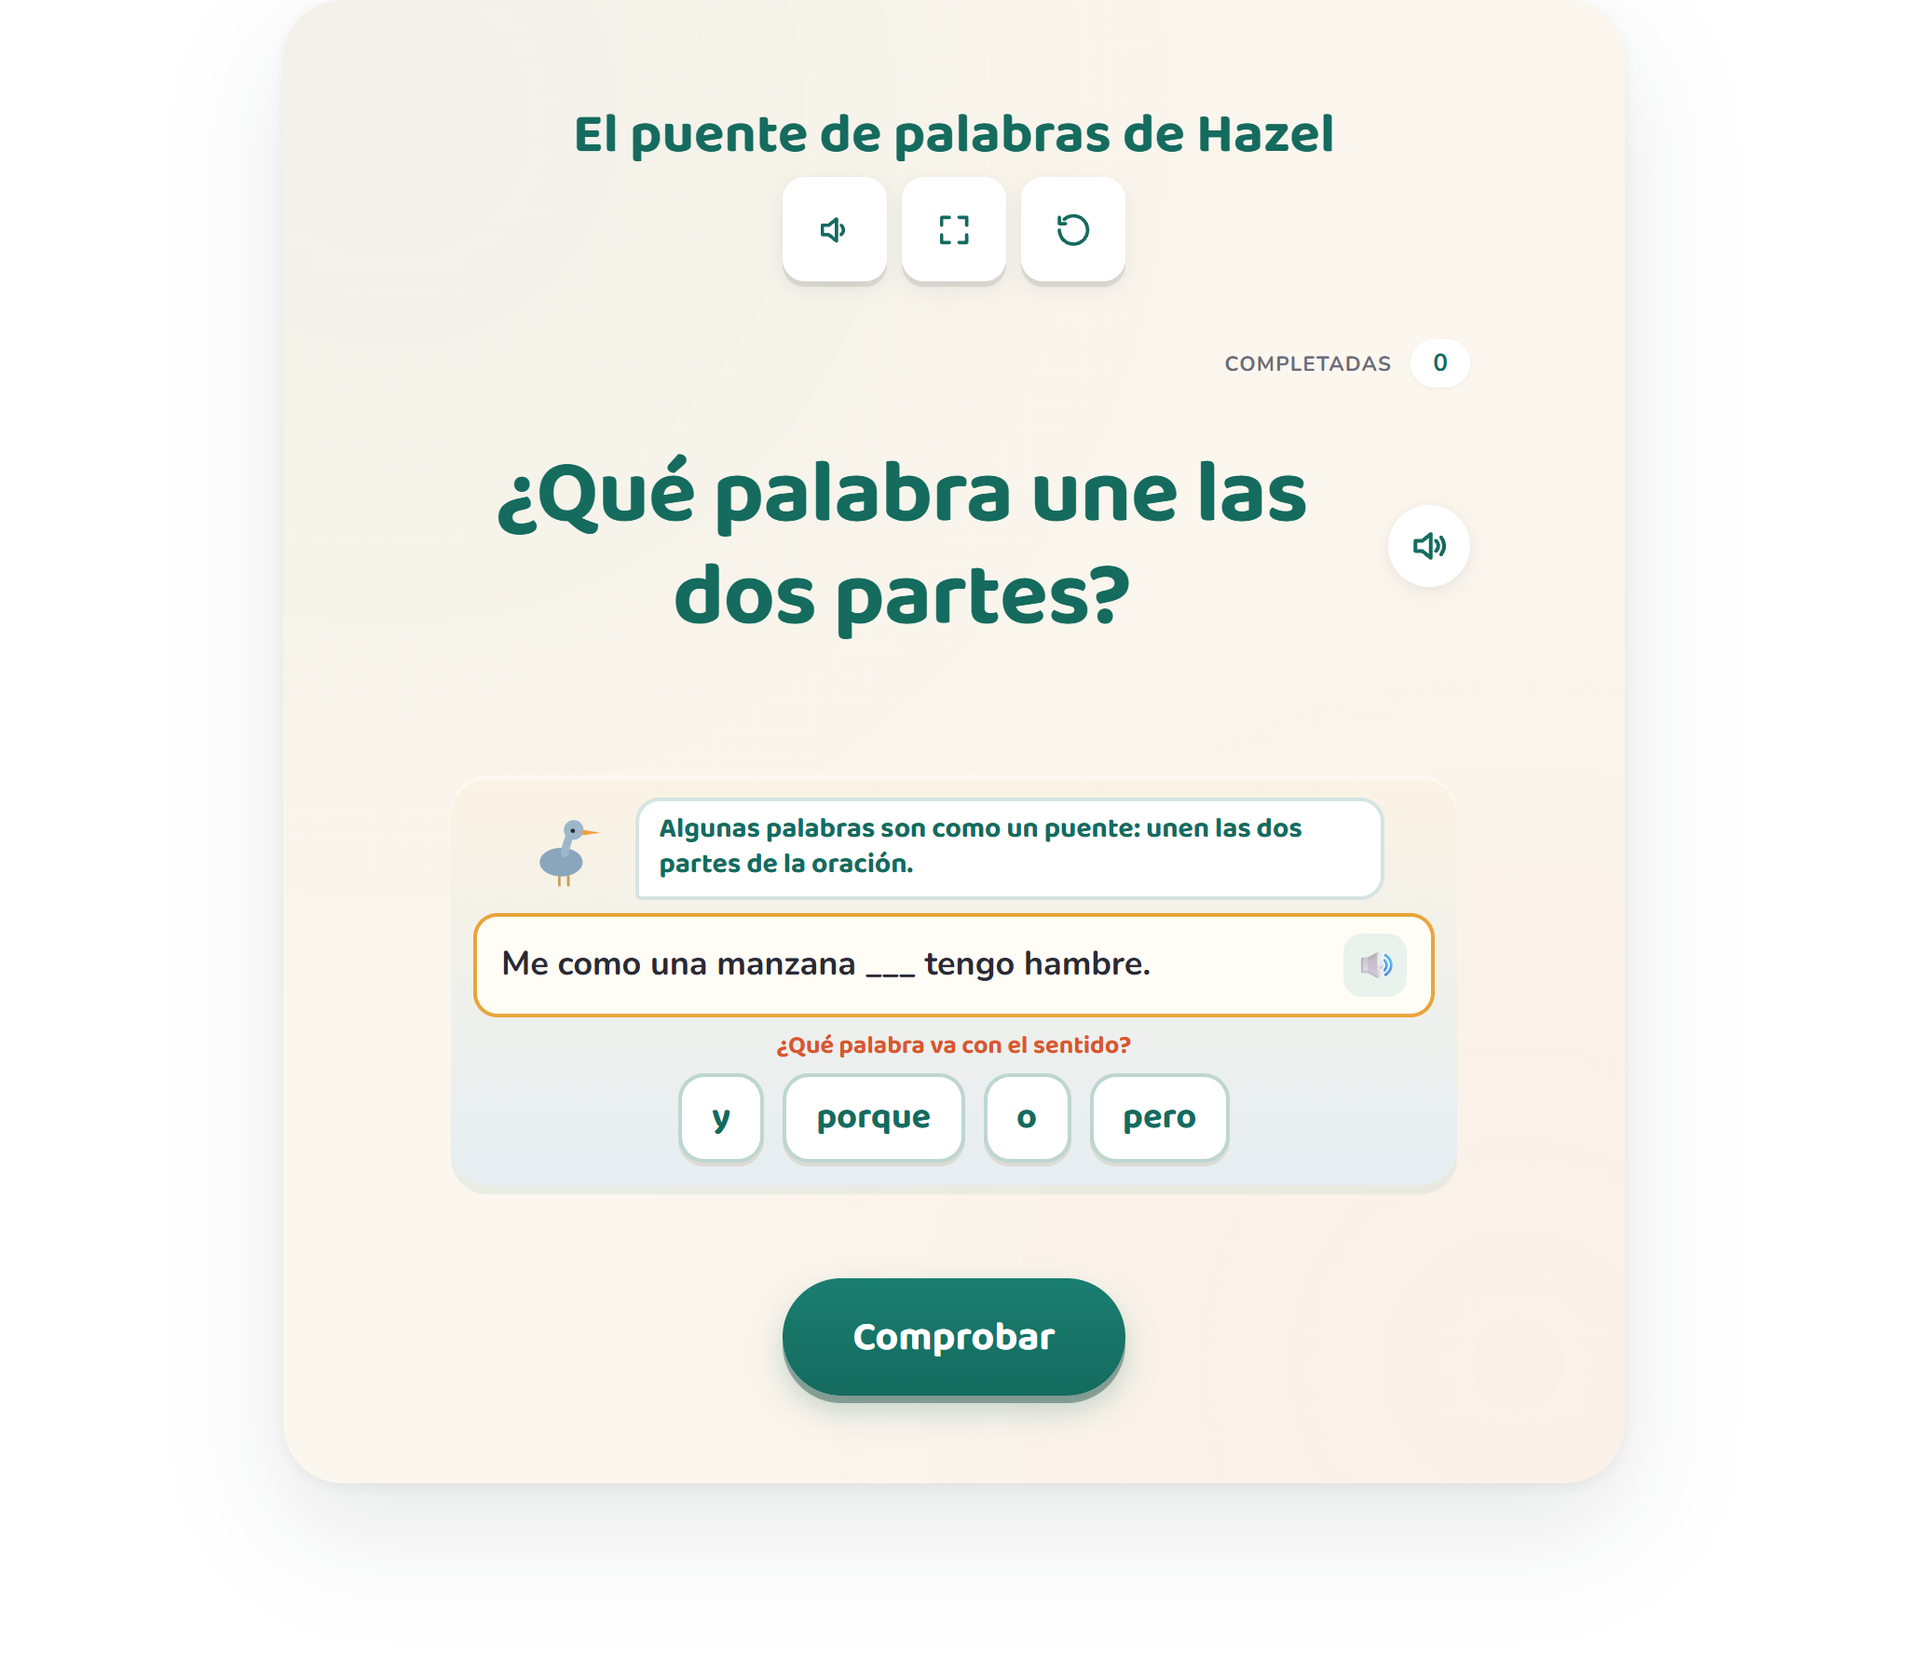
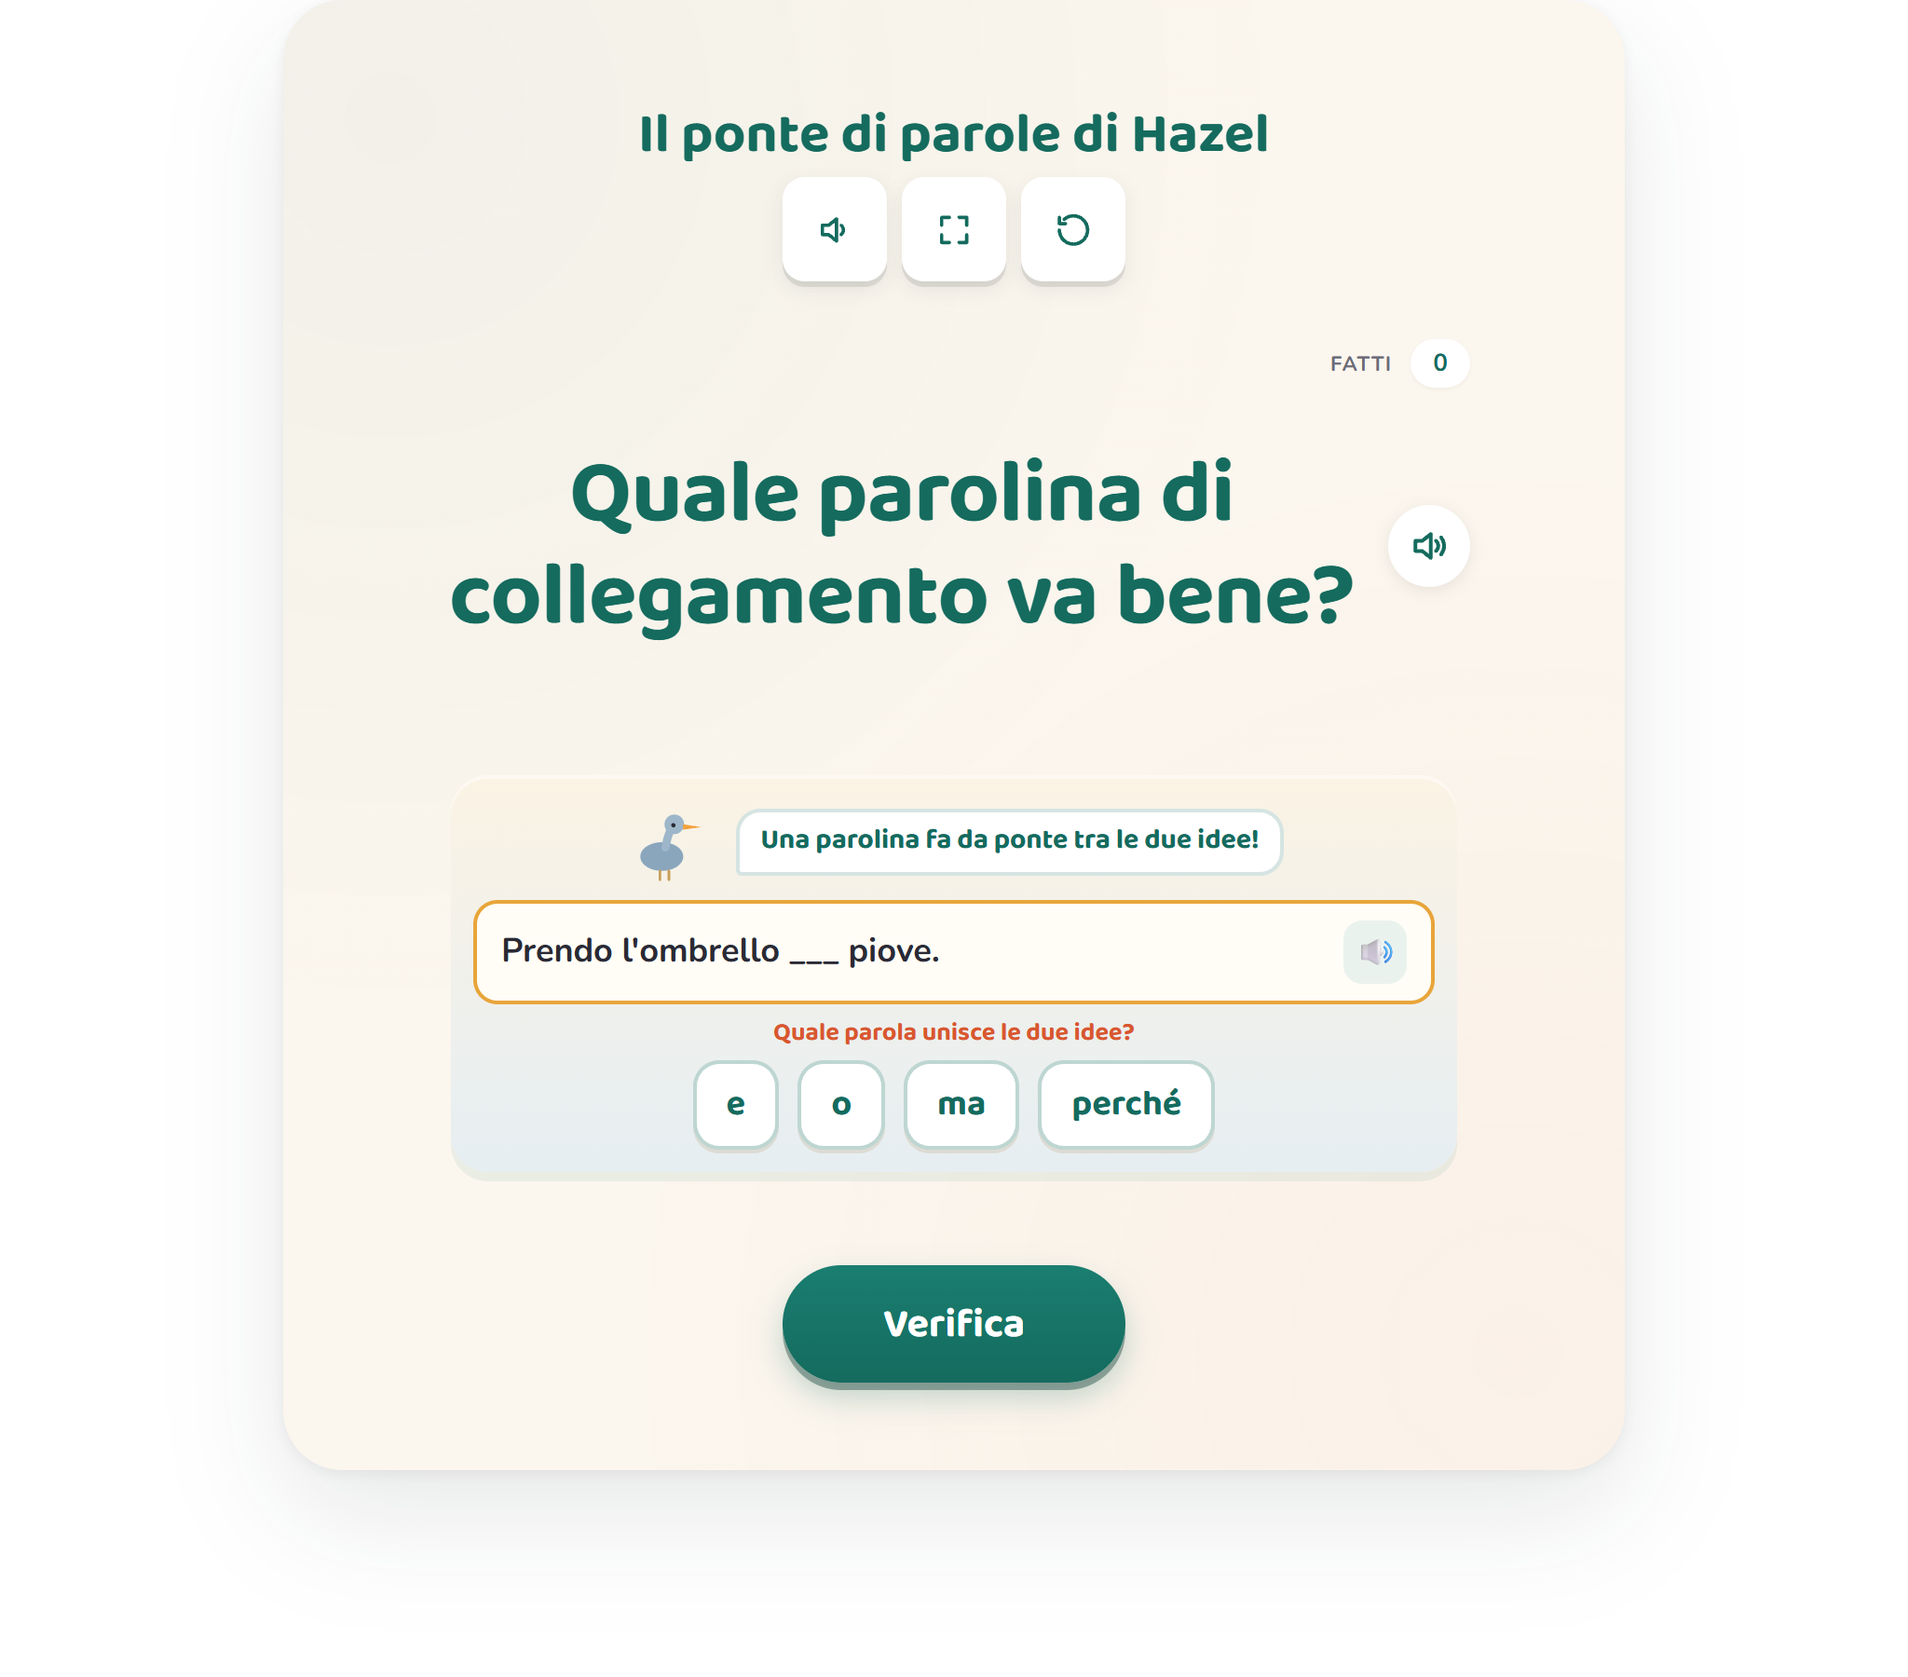
[FEATURE][I18N][IT] hazel-word-bridge #29 — Il ponte di parole di Hazel (classe terza)
9th it LITERACY of the second-batch fan-out (pt sibling «A Ponte de Palavras
da Hazel»). Rebuild not translate for the Indicazioni nazionali — the four
basic congiunzioni e / o / ma / perché (acute é), classe terza, strand
auto-maps to «Riflessione linguistica» (Language.it). 3-agent native ensemble.

Ensemble rulings:
- Round-6 «Accendo la luce ___ è buio» admitted «ma» (bulb-is-dead reading) →
  replaced with «Prendo l'ombrello ___ piove.» (cause is the only fit).
- Round-8 hardened to an emotion cause «Siamo felici ___ è il primo giorno di
  vacanza.» → two distinct cause types (action vs emotion). Round-5 revised to
  mutual-exclusivity «Andiamo al mare ___ restiamo in montagna?».
- Comma-before-«ma» baked into the two «ma» rounds only (correct classe-3 usage).
- Character «Hazel, una garzetta» (feminine); never «la Hazel».
- Kid term «parola di collegamento»; «congiunzioni» reserved for SEO/curriculum.

Activity-layer only: 0 lines to conjunction-core.js / lcs-shell.* / Direction-A
CSS. GRADE_OVERRIDE it:'3', wrapper 9.481→9.482, html ?v=6. LOCAL only — NO
deploy (whole it set deploys in one batch at the end).

diff --git a/mini tools/hazel-word-bridge-activity.js b/mini tools/hazel-word-bridge-activity.js
@@ -23,18 +23,22 @@
   var CHIPS_ES = ['y', 'o', 'pero', 'porque'];
   var REL_CONJ_PT = { addition: 'e', alternative: 'ou', contrast: 'mas', cause: 'porque' };
   var CHIPS_PT = ['e', 'ou', 'mas', 'porque'];
-  var REL_CONJ_L10N = { de: REL_CONJ_DE, fr: REL_CONJ_FR, es: REL_CONJ_ES, pt: REL_CONJ_PT };
-  var CHIPS_L10N = { de: CHIPS_DE, fr: CHIPS_FR, es: CHIPS_ES, pt: CHIPS_PT };
+  // it (#29 native ensemble): the four basic congiunzioni for classe terza — e / o / ma / perché.
+  // ⚠ ACUTE é on «perché» (all oxytone -ché words take acute; «perchè» is the classic error).
+  var REL_CONJ_IT = { addition: 'e', alternative: 'o', contrast: 'ma', cause: 'perché' };
+  var CHIPS_IT = ['e', 'o', 'ma', 'perché'];
+  var REL_CONJ_L10N = { de: REL_CONJ_DE, fr: REL_CONJ_FR, es: REL_CONJ_ES, pt: REL_CONJ_PT, it: REL_CONJ_IT };
+  var CHIPS_L10N = { de: CHIPS_DE, fr: CHIPS_FR, es: CHIPS_ES, pt: CHIPS_PT, it: CHIPS_IT };
   function hwbOracle(round) { var m = REL_CONJ_L10N[LANG]; return m ? (m[round.relation] || '') : Core.oracle(round); }
   function hwbIsAnswer(round, str) { return str === hwbOracle(round); }
 
   function esc(s) { return String(s == null ? '' : s).replace(/[&<>"]/g, function (c) { return { '&': '&amp;', '<': '&lt;', '>': '&gt;', '"': '&quot;' }[c]; }); }
   function speak(text, rate) {
-    try { if (global.LCSAudio && global.LCSAudio.speak) { global.LCSAudio.speak({ type: 'word', text: text, lang: (LANG === 'es' ? 'es-MX' : LANG === 'pt' ? 'pt-BR' : LANG), rate: rate || 0.95 }); return; }
-      if (global.speechSynthesis && global.SpeechSynthesisUtterance) { var u = new global.SpeechSynthesisUtterance(text); u.rate = rate || 0.95; u.lang = LANG === 'de' ? 'de-DE' : LANG === 'fr' ? 'fr-FR' : LANG === 'es' ? 'es-MX' : LANG === 'pt' ? 'pt-BR' : 'en-US'; global.speechSynthesis.cancel(); global.speechSynthesis.speak(u); } } catch (e) {}
+    try { if (global.LCSAudio && global.LCSAudio.speak) { global.LCSAudio.speak({ type: 'word', text: text, lang: (LANG === 'es' ? 'es-MX' : LANG === 'pt' ? 'pt-BR' : LANG === 'it' ? 'it-IT' : LANG), rate: rate || 0.95 }); return; }
+      if (global.speechSynthesis && global.SpeechSynthesisUtterance) { var u = new global.SpeechSynthesisUtterance(text); u.rate = rate || 0.95; u.lang = LANG === 'de' ? 'de-DE' : LANG === 'fr' ? 'fr-FR' : LANG === 'es' ? 'es-MX' : LANG === 'pt' ? 'pt-BR' : LANG === 'it' ? 'it-IT' : 'en-US'; global.speechSynthesis.cancel(); global.speechSynthesis.speak(u); } } catch (e) {}
   }
   function shuffle(arr) { var a = arr.slice(), i, j, t; for (i = a.length - 1; i > 0; i--) { j = Math.floor(Math.random() * (i + 1)); t = a[i]; a[i] = a[j]; a[j] = t; } return a; }
-  function sayable(s) { return String(s || '').replace(/___/g, LANG === 'de' ? 'Lücke' : LANG === 'fr' ? 'trou' : LANG === 'es' ? 'espacio' : LANG === 'pt' ? 'lacuna' : 'blank'); }
+  function sayable(s) { return String(s || '').replace(/___/g, LANG === 'de' ? 'Lücke' : LANG === 'fr' ? 'trou' : LANG === 'es' ? 'espacio' : LANG === 'pt' ? 'lacuna' : LANG === 'it' ? 'spazio' : 'blank'); }
 
   function heronSVG(mood) {
     var happy = mood === 'happy';
@@ -53,13 +57,13 @@
     id: 'hazel-word-bridge-activity',
 
     strings: {
-      title: { en: "Hazel's Word Bridge", de: 'Hazels Wortbrücke', fr: 'Le pont des mots de Hazel', es: 'El puente de palabras de Hazel', pt: 'A ponte de palavras da Hazel' },
-      prompt: { en: 'Which joining word fits?', de: 'Welches Bindewort passt?', fr: 'Quel mot de liaison va bien ?', es: '¿Qué palabra une las dos partes?', pt: 'Qual palavrinha de ligação combina?' },
-      hazelIntro: { en: 'A joining word bridges the two ideas!', de: 'Ein Bindewort schlägt eine Brücke zwischen den zwei Sätzen!', fr: 'Un mot de liaison fait un pont entre les deux phrases !', es: 'Algunas palabras son como un puente: unen las dos partes de la oración.', pt: 'Uma palavrinha de ligação faz a ponte entre as duas ideias!' },
-      theAsk: { en: 'Which word joins the two parts?', de: 'Welches Wort verbindet die zwei Teile?', fr: 'Quel mot relie les deux parties ?', es: '¿Qué palabra va con el sentido?', pt: 'Qual palavra combina com o sentido?' },
-      hintPick: { en: 'Tap the joining word that makes sense!', de: 'Tippe auf ein Bindewort, das in die Lücke passt.', fr: 'Touche le mot de liaison qui va dans le trou.', es: 'Toca la palabra que une las dos partes con sentido.', pt: 'Toque na palavra que liga as duas partes com sentido!' },
-      hintWrong: { en: "That joining word doesn't fit — read it again.", de: 'Lies den ganzen Satz noch einmal. Welches Wort passt zur Bedeutung?', fr: 'Relis toute la phrase : quel mot va avec le sens ?', es: 'Lee otra vez toda la oración. ¿Qué palabra tiene sentido aquí?', pt: 'Leia a frase toda de novo — qual palavrinha combina com o sentido?' },
-      win: { en: 'Yes! That word bridges the two ideas. 🌉', de: 'Stark gemacht! Du hast die richtige Brücke gebaut! 🌉', fr: 'Bravo ! Tu as construit le bon pont ! 🌉', es: '¡Muy bien! Uniste las dos partes con el puente correcto. 🌉', pt: 'Muito bem! Você ligou as duas partes com a ponte certa. 🌉' }
+      title: { en: "Hazel's Word Bridge", de: 'Hazels Wortbrücke', fr: 'Le pont des mots de Hazel', es: 'El puente de palabras de Hazel', pt: 'A ponte de palavras da Hazel', it: 'Il ponte di parole di Hazel' },
+      prompt: { en: 'Which joining word fits?', de: 'Welches Bindewort passt?', fr: 'Quel mot de liaison va bien ?', es: '¿Qué palabra une las dos partes?', pt: 'Qual palavrinha de ligação combina?', it: 'Quale parolina di collegamento va bene?' },
+      hazelIntro: { en: 'A joining word bridges the two ideas!', de: 'Ein Bindewort schlägt eine Brücke zwischen den zwei Sätzen!', fr: 'Un mot de liaison fait un pont entre les deux phrases !', es: 'Algunas palabras son como un puente: unen las dos partes de la oración.', pt: 'Uma palavrinha de ligação faz a ponte entre as duas ideias!', it: 'Una parolina fa da ponte tra le due idee!' },
+      theAsk: { en: 'Which word joins the two parts?', de: 'Welches Wort verbindet die zwei Teile?', fr: 'Quel mot relie les deux parties ?', es: '¿Qué palabra va con el sentido?', pt: 'Qual palavra combina com o sentido?', it: 'Quale parola unisce le due idee?' },
+      hintPick: { en: 'Tap the joining word that makes sense!', de: 'Tippe auf ein Bindewort, das in die Lücke passt.', fr: 'Touche le mot de liaison qui va dans le trou.', es: 'Toca la palabra que une las dos partes con sentido.', pt: 'Toque na palavra que liga as duas partes com sentido!', it: 'Tocca la parola di collegamento che ha senso!' },
+      hintWrong: { en: "That joining word doesn't fit — read it again.", de: 'Lies den ganzen Satz noch einmal. Welches Wort passt zur Bedeutung?', fr: 'Relis toute la phrase : quel mot va avec le sens ?', es: 'Lee otra vez toda la oración. ¿Qué palabra tiene sentido aquí?', pt: 'Leia a frase toda de novo — qual palavrinha combina com o sentido?', it: 'Rileggi tutta la frase — quale parola ha senso qui?' },
+      win: { en: 'Yes! That word bridges the two ideas. 🌉', de: 'Stark gemacht! Du hast die richtige Brücke gebaut! 🌉', fr: 'Bravo ! Tu as construit le bon pont ! 🌉', es: '¡Muy bien! Uniste las dos partes con el puente correcto. 🌉', pt: 'Muito bem! Você ligou as duas partes com a ponte certa. 🌉', it: 'Sì! Hai unito le due idee con il ponte giusto. 🌉' }
     },
     defaults: {},
 
@@ -92,7 +96,7 @@
 
       var sent = api.el('div', 'hwb-sent');
       var txt = api.el('span', 'hwb-senttxt'); txt.textContent = v.sentence; sent.appendChild(txt);
-      var sp = api.el('button', 'hwb-spk'); sp.type = 'button'; sp.setAttribute('aria-label', LANG === 'de' ? 'Satz anhören' : LANG === 'fr' ? 'écouter la phrase' : LANG === 'es' ? 'escuchar la oración' : LANG === 'pt' ? 'ouvir a frase' : 'hear the sentence'); sp.textContent = '🔊';
+      var sp = api.el('button', 'hwb-spk'); sp.type = 'button'; sp.setAttribute('aria-label', LANG === 'de' ? 'Satz anhören' : LANG === 'fr' ? 'écouter la phrase' : LANG === 'es' ? 'escuchar la oración' : LANG === 'pt' ? 'ouvir a frase' : LANG === 'it' ? 'ascolta la frase' : 'hear the sentence'); sp.textContent = '🔊';
       sp.addEventListener('click', function () { speak(sayable(v.sentence)); }); sent.appendChild(sp);
       root.appendChild(sent);
 

diff --git a/frontend/app/[locale]/activities/[slug]/page.tsx b/frontend/app/[locale]/activities/[slug]/page.tsx
@@ -81,7 +81,7 @@ const GRADE_OVERRIDE: Record<string, Record<string, string>> = {
   'pronoun.case.l-1-1-d': { de: '3', fr: '3', es: '3', pt: '3', it: '3' },                  // case-correct pronoun-form choice (er/ihn) → DE Klasse 3 (Fall-arbeit is Klasse 3/4); FR CE2 (les pronoms sujets = CE1, but the COD/object form me/te/le is the CE2 attendu — the activity's central difficulty). MX 3.º: los pronombres de sujeto son 2.º, pero el contraste sujeto/objeto-clítico (Mamá me ve) + posesivo es habilidad de 3.º (misma lógica que fr CE2/de Klasse 3); espeja de/fr. PT 3º ano: o contraste caso reto/oblíquo (Eu/Mim, me/eu) + possessivo é habilidade de 3º ano (EF35LP14 — pronomes como recurso coesivo); os pronomes de sujeito são 2º, mas o contraste de caso é 3º; espelha es/fr/de. IT classe terza: il contrasto di caso pronominale (soggetto io / complemento mi / possessivo mio, «Luca e io» non «Luca e me») è riflessione linguistica di 3ª nelle Indicazioni nazionali (i pronomi soggetto sono 2ª, il contrasto di caso è 3ª); FIRST it grade-3; rispecchia de/fr/es/pt. STRAND «Riflessione linguistica» auto (Language.it, #20; NO override)
   'olive-kind-of.category-attribute.l-1-5-b': { de: '2', fr: '2', es: '2', pt: '2', it: '2' },  // IT classe seconda: subsumere un referente concreto sotto un iperonimo (categorizzare) = competenza di 2ª (in 1ª = nominare il concreto); rispecchia de/fr/es/pt. // Oberbegriff/Hyperonym abstraction → DE Klasse 2 (EN Grade 1 placement doesn't transfer); FR CE1 (catégoriser / le mot générique vs particulier = attendu CE1, réflexif, past CP naming). MX 2.º: subsumir un referente concreto en su término general (categorizar/agrupar) es competencia de 2.º NEM (1.º es nombrar concreto); espeja de/fr
   'vera-verb-match.be-agreement.l-1-1-c': { de: '2', fr: '2', es: '2', pt: '2', it: '2' },  // IT classe seconda: i bambini USANO le forme già in 1ª, ma la concordanza consapevole soggetto-verbo (sto/sta/stanno) = riflessione metalinguistica di 2ª; rispecchia de/fr/es/pt. (Fork: STARE non ESSERE — io sono===loro sono collide.) // reflective Subjekt-Verb-Kongruenz (bin/ist/sind) → DE Klasse 2 (K-1 kids speak it; the grammar task is Klasse 2); FR CE1 (l'accord sujet-verbe / conjuguer être au présent = attendu CE1, réflexif, past CP oral use); ES 2.º (concordancia sujeto-verbo con estar = reflexión metalingüística 2.º NEM; kids speak estoy/está/están at 1.º)
-  'hazel-word-bridge.joining-words.l-1-1-g': { de: '3', fr: '3', es: '3', pt: '3' },  // selection-by-meaning across 4 Bindewörter incl. causal „denn" + Pflichtkomma → DE Klasse 3; FR: coordination + car + comma-before-mais/car → CE2; ES 3.º (selección por sentido de 4 nexos incl. causal porque + coma-ante-pero = 3.º NEM Lenguajes)
+  'hazel-word-bridge.joining-words.l-1-1-g': { de: '3', fr: '3', es: '3', pt: '3', it: '3' },  // selection-by-meaning across 4 Bindewörter incl. causal „denn" + Pflichtkomma → DE Klasse 3; FR: coordination + car + comma-before-mais/car → CE2; ES 3.º (selección por sentido de 4 nexos incl. causal porque + coma-ante-pero = 3.º NEM Lenguajes); IT classe terza (scelta per senso di 4 congiunzioni incl. causale «perché» + virgola-prima-di-«ma»)
   'cleo-packing-list.series-commas.l-1-2-b': { de: '3', fr: '3', es: '3', pt: '3' },  // Komma bei Aufzählung = first comma rule, DE Klasse 3; FR: la virgule d'énumération = premier attendu interne → CE2; ES 3.º (la coma en enumeraciones = primera regla de coma; 1.º-2.º solo punto/mayúscula)
   'robin-mirror.reflexive.l-2-1-c': { de: '3', fr: '3', es: '3', pt: '3' },        // Reflexivpronomen → DE Klasse 3; FR: le pronom réfléchi qui varie avec le sujet = consolidation CE2; ES 3.º (pronombres reflexivos como categoría metalingüística = 3.º NEM; uso oral desde preescolar)
   'rusty-yesterday.irregular-past.l-2-1-d': { de: '3', fr: '3', es: '3', pt: '3' }, // starke Verben Präteritum → DE Klasse 3; FR: passé composé irrégulier (résister à « faisé ») = consolidation CE2; ES 3.º (estudio consciente del pretérito de verbos irregulares + rechazar la sobrerregularización = 3.º NEM; uso oral desde preescolar)
@@ -547,7 +547,7 @@ export default async function ActivityPage({ params }: { params: PageParams }) {
   // applied here to the iframe-loaded wrapper URL (the only un-busted
   // link in the activity-page → mini-tool chain). The wrapper reads
   // only `activity` / `lang` / `embed` params; `v` is harmless to it.
-  const ACTIVITY_WRAPPER_VERSION = '9.481';
+  const ACTIVITY_WRAPPER_VERSION = '9.482';
 
   const iframeSrc =
     `/mini-tools/${row.tool}.html?v=${ACTIVITY_WRAPPER_VERSION}` +

diff --git a/mini tools/hazel-word-bridge-activity.html b/mini tools/hazel-word-bridge-activity.html
@@ -17,7 +17,7 @@
        NOTE: bump ?v=N on EVERY change to hazel-word-bridge-activity.js / conjunction-core.js (§A.13.42). -->
   <script src="/mini-tools/lcs-shell.js?v=5"></script>
   <script src="/mini-tools/conjunction-core.js?v=1"></script>
-  <script src="/mini-tools/hazel-word-bridge-activity.js?v=5"></script>
+  <script src="/mini-tools/hazel-word-bridge-activity.js?v=6"></script>
   <script>
     LCS.mount(HazelWordBridgeActivity, { mount: '#lcs-root' });
   </script>
